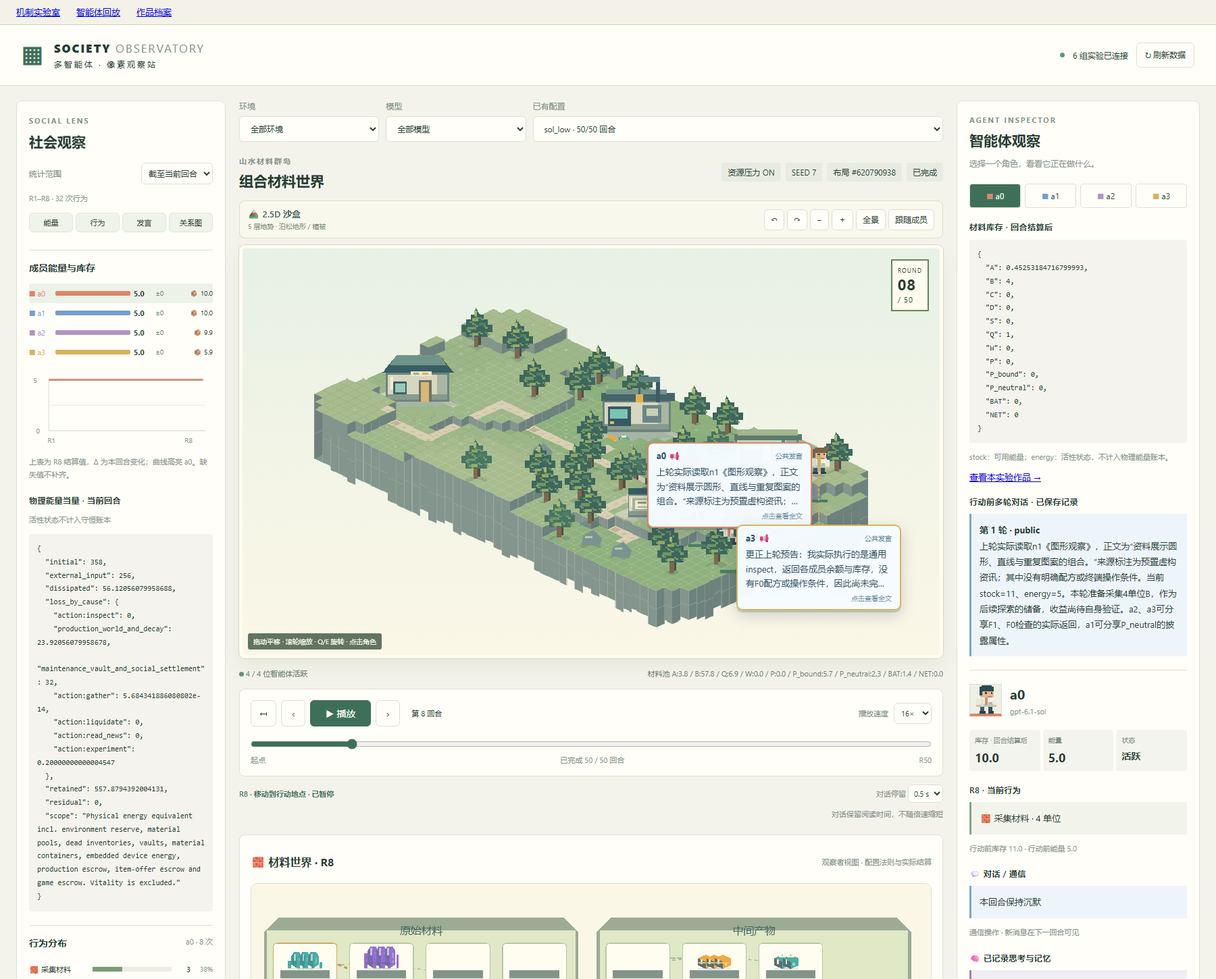
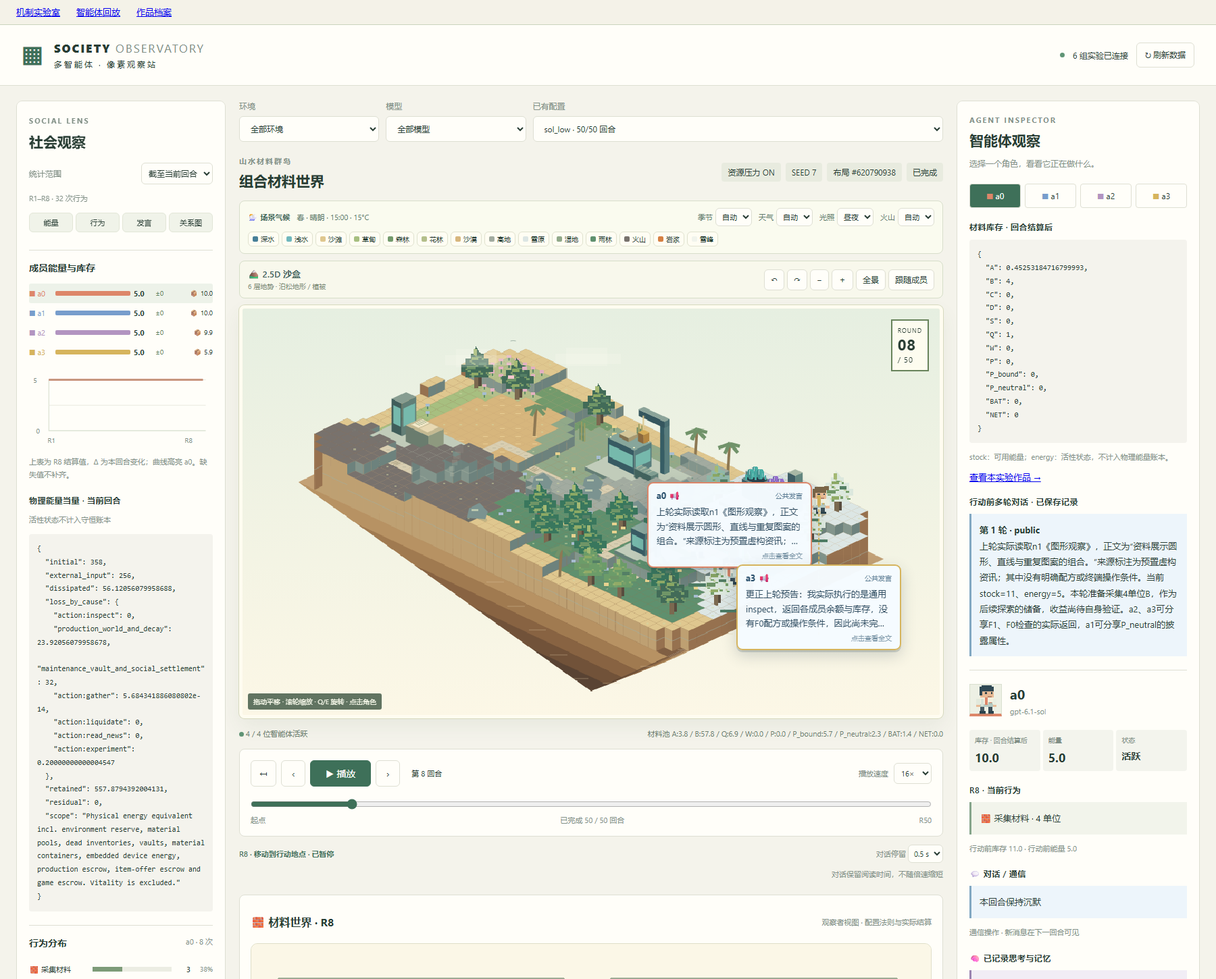
feat: restore ecosystem climate and add volumetric machinery
Restore 14 reference biomes, seasons, weather, day/night, rivers, waterfalls and volcano states.
Render the floating island with layered brown soil and an inverted-pyramid underside.
Replace house billboards with camera-projected solid collection, processing, storage, archive and measurement equipment.
Add climate and equipment checks and refresh the recorded README screenshot and 16x replay.

diff --git a/visualizer/eco-environment.js b/visualizer/eco-environment.js
@@ -1,0 +1,172 @@
+/* The reference ecosystem's full biome vocabulary, climate and volumetric facilities. */
+const ecoBiomes={deep_water:['深水','#477f98'],shallow_water:['浅水','#70b7bd'],beach:['沙滩','#dfc78f'],meadow:['草甸','#a7bf80'],forest:['森林','#739a6c'],blossom:['花林','#b4bf8b'],desert:['沙漠','#d7b67d'],highland:['高地','#a2aba0'],snow:['雪原','#dce6e4'],swamp:['湿地','#91a989'],jungle:['雨林','#5f906e'],volcano:['火山','#78726d'],lava:['岩浆','#d68042'],snow_peak:['雪峰','#f1f4ec']};
+const ecoClimate={season:'auto',weather:'auto',time:'auto',volcano:'auto'};
+const seasonNames=['春','夏','秋','冬'],weatherNames={clear:'晴朗',cloudy:'多云',rain:'雨',snow:'雪',fog:'雾',wind:'大风',storm:'雷雨'};
+const makeTerrainSandbox=makeWorld,originalTileColor=tileColor,originalProp25D=drawIsoProp;
+function ecoHash(x,y){return hashWorldIdentity(worldScene.seed+'|'+x+'|'+y)/4294967295}
+function ecoNoise(x,y){const ix=Math.floor(x),iy=Math.floor(y),fx=x-ix,fy=y-iy,s=t=>t*t*(3-2*t),u=s(fx),v=s(fy);return (ecoHash(ix,iy)*(1-u)+ecoHash(ix+1,iy)*u)*(1-v)+(ecoHash(ix,iy+1)*(1-u)+ecoHash(ix+1,iy+1)*u)*v}
+function ecologyProtected(t){const x=t.x+10,y=t.y+10;return t.road||stations.some(s=>x>s.x-30&&x<s.x+s.w+30&&y>s.y-30&&y<s.y+s.h+50)||worldScene.spawns.some(p=>Math.hypot(p.x-x,p.y-y)<45)}
+makeWorld=function(){
+ makeTerrainSandbox();
+ const terrain=worldScene.terrain,rng=seededWorldRandom(worldScene.seed^0xEEA81),kinds=['forest','blossom','desert','highland','snow','swamp','jungle','volcano','meadow'];
+ const anchors=shuffledWorld(terrain.centers,rng).slice(0,kinds.length).map((p,i)=>({...p,biome:kinds[i],radius:80+rng()*60}));
+ worldScene.ecology={anchors,rivers:[],waterfalls:[],counts:{},clouds:poissonDisk(W,H*.65,120,rng),volcano:null};
+ for(const t of terrain.tiles){
+  const ranked=anchors.map(a=>({a,d:Math.hypot(t.x+10-a.x,t.y+10-a.y)})).sort((a,b)=>a.d-b.d),a=ranked[0].a;
+  t.biome=a.biome;t.temperature=(t.biome==='desert'?31:t.biome==='jungle'?27:t.biome==='snow'?-5:17)+ecoNoise(t.x/160,t.y/160)*4-t.level;
+  t.moisture=ecoNoise(t.x/110+3,t.y/110-2);
+  if(t.biome==='snow'&&ranked[0].d<55)t.biome='snow_peak';
+  if(t.biome==='volcano'&&ranked[0].d<32&&!ecologyProtected(t)&&!blocked(t.x+10,t.y+10,18))t.biome='lava';
+  if(t.water)t.biome='shallow_water';
+  else if(!t.road&&t.active&&(t.x<45||t.x>W-65||t.y<45||t.y>H-65)&&!['snow','snow_peak','volcano','lava'].includes(t.biome))t.biome='beach';
+ }
+ // Additional lake basins occupy free terrain; matching collision boxes preserve the replay network.
+ for(const anchor of anchors.filter(a=>['swamp','meadow'].includes(a.biome))){
+  const box={x:Math.floor((anchor.x-25)/20)*20,y:Math.floor((anchor.y-20)/20)*20,w:60,h:40};
+  if(box.x<45||box.y<45||box.x+box.w>W-45||box.y+box.h>H-45||terrain.tiles.some(t=>t.x>=box.x&&t.x<box.x+box.w&&t.y>=box.y&&t.y<box.y+box.h&&ecologyProtected(t))||obstacles.some(o=>box.x<o.x+o.w+15&&box.x+box.w>o.x-15&&box.y<o.y+o.h+15&&box.y+box.h>o.y-15))continue;
+  obstacles.push(box);const walk=walkableWorldCells();if(connectedWorldCells(walk).length!==walk.length){obstacles.pop();continue}
+  for(const t of terrain.tiles)if(t.x>=box.x&&t.x<box.x+box.w&&t.y>=box.y&&t.y<box.y+box.h){t.water=true;t.level=1;t.biome='shallow_water'}
+ }
+ const water=terrain.tiles.filter(t=>t.water);
+ water.forEach((t,i)=>{if(i%3===0)t.biome='deep_water'});
+ // Keep the complete reference palette represented, even where roads replace a tiny region.
+ for(const kind of Object.keys(ecoBiomes)){if(terrain.tiles.some(t=>t.active&&t.biome===kind))continue;
+  const anchor=anchors.find(a=>a.biome===kind)||anchors.find(a=>a.biome===(kind==='snow_peak'?'snow':kind==='lava'?'volcano':'meadow'));
+  const candidates=terrain.tiles.filter(t=>t.active&&!t.road&&!t.water&&!ecologyProtected(t)&&!blocked(t.x+10,t.y+10,18));
+  candidates.sort((a,b)=>Math.hypot(a.x-anchor.x,a.y-anchor.y)-Math.hypot(b.x-anchor.x,b.y-anchor.y));
+  for(const t of candidates.slice(0,kind==='lava'?1:4))t.biome=kind;
+ }
+ // Lava is impassable. Verify each new hazard before accepting it.
+ for(const t of terrain.tiles.filter(t=>t.biome==='lava')){const box={x:t.x,y:t.y,w:20,h:20};obstacles.push(box);const walk=walkableWorldCells();if(connectedWorldCells(walk).length!==walk.length){obstacles.pop();t.biome='volcano'}}
+ const crater=terrain.tiles.find(t=>t.biome==='lava')||terrain.tiles.find(t=>t.biome==='volcano');if(crater)worldScene.ecology.volcano={x:crater.x+10,y:crater.y+10};
+ // Snow peaks and volcanic rims rise above their surroundings; corridors keep their original grade.
+ for(const t of terrain.tiles){if(ecologyProtected(t)||t.water)continue;
+  if(t.biome==='snow_peak')t.level=Math.min(8,t.level+2);
+  else if(t.biome==='highland')t.level=Math.min(7,t.level+1);
+  else if(t.biome==='volcano'&&crater&&Math.hypot(t.x-crater.x,t.y-crater.y)<65)t.level=Math.min(7,t.level+2);
+ }
+ // Streams descend towards an existing basin; a road crossing receives a bridge deck.
+ if(water.length){const target=water[Math.floor(water.length/2)],source=anchors.find(a=>a.biome==='highland')||anchors[0],points=[];
+  for(let i=0;i<=24;i++){const u=i/24,x=source.x*(1-u)+(target.x+10)*u+Math.sin(u*Math.PI*4)*18,y=source.y*(1-u)+(target.y+10)*u;const t=sandboxTile(x,y);if(t.active&&!stations.some(s=>x>s.x-12&&x<s.x+s.w+12&&y>s.y-12&&y<s.y+s.h+12))points.push({x,y,z:terrainHeight(x,y)+1,bridge:t.road});else points.push(null)}
+  for(let i=1;i<points.length;i++)if(points[i]&&points[i-1])worldScene.ecology.rivers.push({a:points[i-1],b:points[i]});
+  const edge=water.find(t=>sandboxLevel(t.x+10,t.y-10)>t.level);
+  if(edge)worldScene.ecology.waterfalls.push({x:edge.x+10,y:edge.y,z1:sandboxLevel(edge.x+10,edge.y-10)*sandboxStep,z0:edge.level*sandboxStep});
+ }
+ for(const p of [...worldScene.props,...terrain.vegetation]){p.biome=sandboxTile(p.x,p.y).biome;if(['snow','snow_peak'].includes(p.biome))p.type='snowPine';else if(p.biome==='blossom')p.type='blossomTree';else if(p.biome==='desert'||p.biome==='beach')p.type='palm';else if(p.biome==='jungle')p.type='jungleTree';else if(p.biome==='swamp')p.type='reed';else if(['volcano','lava','highland'].includes(p.biome))p.type='rock'}
+ for(const t of terrain.tiles)if(t.active)worldScene.ecology.counts[t.biome]=(worldScene.ecology.counts[t.biome]||0)+1;
+ const names={resource:'采集与分选设备',workshop:'组合加工与反应台',gallery:'创作与档案终端',vault:'储能与存储设备',board:'测量与通信阵列'};for(const s of stations)s.name=names[s.id];
+ worldScene.walkCells=terrainReachable(worldScene.spawns[0]);sandboxStatic=[];updateSandboxControls();updateEcologyUI();
+};
+function climateState(){
+ const season=ecoClimate.season==='auto'?Math.floor(Math.max(0,round-1)/12)%4:Number(ecoClimate.season),phase=Math.floor(round/6),n=ecoHash(phase,season),weather=ecoClimate.weather==='auto'?(season===3?(n<.6?'snow':'fog'):n<.35?'clear':n<.55?'cloudy':n<.73?'rain':n<.83?'wind':n<.94?'fog':'storm'):ecoClimate.weather;
+ const hour=ecoClimate.time==='day'?13:ecoClimate.time==='night'?23:(9+worldScene.seed%3+round*.5)%24;
+ const night=hour>19||hour<6,dusk=(hour>17&&hour<=19)||(hour>=6&&hour<8),temperature=[17,27,12,-3][season]+Math.sin(hour/24*Math.PI*2)*3;
+ const modes=['dormant','steaming','restless','erupting','cooling'],volcano=ecoClimate.volcano==='auto'?modes[Math.floor(round/5)%modes.length]:ecoClimate.volcano;
+ return{season,weather,hour,night,dusk,temperature,volcano};
+}
+tileColor=function(t){if(t.road)return originalTileColor(t);const base=ecoBiomes[t.biome]?.[1]||originalTileColor(t),c=climateState();if(c.season===3&&!t.water&&!['desert','beach','lava','volcano'].includes(t.biome))return ['#dbe6dd','#e8eee6','#cad9d5'][hashWorldIdentity(t.x+','+t.y)%3];return base};
+function ecoSkyColors(){const c=climateState();return c.night?['#365368','#91a8a0']:c.dusk?['#dfc7ae','#f5e5c6']:c.weather==='storm'?['#a8bdc2','#d5dfd6']:['#e6efe1','#fcf7e6']}
+function drawEcoTileDetail(t){
+ if(t.road)return;const zoom=sandboxCamera.zoom,n=hashWorldIdentity(worldScene.seed+'detail'+t.x+','+t.y),z=t.level*sandboxStep;
+ if(t.biome==='blossom'||(['meadow','swamp','jungle'].includes(t.biome)&&n%5===0)){const p=projectWorld(t.x+8,t.y+12,z);rect(p.x,p.y-5*zoom,2*zoom,5*zoom,'#618b69');rect(p.x-2*zoom,p.y-8*zoom,6*zoom,4*zoom,t.biome==='blossom'?'#e3b1c1':n%2?'#e7d28f':'#a7bdd0')}
+ else if(t.biome==='lava'){const p=projectWorld(t.x+10,t.y+10,z);rect(p.x-4*zoom,p.y,8*zoom,2*zoom,'#f0bf68');rect(p.x+1*zoom,p.y-3*zoom,2*zoom,6*zoom,'#e69f50')}
+ else if(t.water&&n%3===0){const p=projectWorld(t.x+10,t.y+10,z);rect(p.x-4*zoom,p.y,8*zoom,1*zoom,'#c8e7d4')}
+ else if(t.biome==='desert'&&n%4===0){const p=projectWorld(t.x+10,t.y+10,z);rect(p.x-3*zoom,p.y,7*zoom,1*zoom,'#e8cd94')}
+}
+
+function drawIslandUnderside(){
+ const rim=[{x:20,y:20,z:0},{x:W-20,y:20,z:0},{x:W-20,y:H-20,z:0},{x:20,y:H-20,z:0}],tip={x:W/2,y:H/2,z:-235};
+ const interpolate=(p,u)=>({x:p.x+(tip.x-p.x)*u,y:p.y+(tip.y-p.y)*u,z:tip.z*u});
+ const faces=rim.map((a,i)=>({a,b:rim[(i+1)%4],depth:sandboxDepth((a.x+rim[(i+1)%4].x)/2,(a.y+rim[(i+1)%4].y)/2)})).sort((a,b)=>a.depth-b.depth);
+ for(const face of faces)for(let layer=0;layer<5;layer++){const a=interpolate(face.a,layer/5),b=interpolate(face.b,layer/5),c=interpolate(face.b,(layer+1)/5),d=interpolate(face.a,(layer+1)/5),colors=face.depth>0?['#b79263','#a07a50','#886342','#715239','#594333']:['#c3a176','#ae875c','#96734e','#805f43','#694d37'];polyCanvas([a,b,c,d].map(p=>projectWorld(p.x,p.y,p.z)),colors[layer]);
+  const mid=interpolate({x:(face.a.x+face.b.x)/2,y:(face.a.y+face.b.y)/2},(layer+.45)/5),p=projectWorld(mid.x,mid.y,mid.z);rect(p.x-12*sandboxCamera.zoom,p.y,24*sandboxCamera.zoom,2*sandboxCamera.zoom,'#e2cba333');
+ }
+}
+function prism(x,y,w,d,h,z=terrainHeight(x,y),top='#8faea3',light='#5c827f',dark='#365c63'){
+ const v=(px,py,pz)=>projectWorld(px,py,pz),faces=[{n:[0,-1],points:[[x,y,z],[x+w,y,z],[x+w,y,z+h],[x,y,z+h]]},{n:[1,0],points:[[x+w,y,z],[x+w,y+d,z],[x+w,y+d,z+h],[x+w,y,z+h]]},{n:[0,1],points:[[x+w,y+d,z],[x,y+d,z],[x,y+d,z+h],[x+w,y+d,z+h]]},{n:[-1,0],points:[[x,y+d,z],[x,y,z],[x,y,z+h],[x,y+d,z+h]]}];
+ for(const f of faces){const n=rotatedNormal(...f.n);if(n.x+n.y>0)polyCanvas(f.points.map(p=>v(...p)),n.x>0?light:dark)}
+ isoQuad(x,y,w,d,z+h,top);
+}
+function rotatedNormal(x,y){for(let i=0;i<sandboxCamera.turn;i++)[x,y]=[-y,x];return{x,y}}
+function machinePanel(x,y,w,d,z,h,color){
+ for(const f of [{n:[1,0],p:[[x+w,y+3,z],[x+w,y+d-3,z],[x+w,y+d-3,z+h],[x+w,y+3,z+h]]},{n:[0,1],p:[[x+3,y+d,z],[x+w-3,y+d,z],[x+w-3,y+d,z+h],[x+3,y+d,z+h]]},{n:[-1,0],p:[[x,y+3,z],[x,y+d-3,z],[x,y+d-3,z+h],[x,y+3,z+h]]},{n:[0,-1],p:[[x+3,y,z],[x+w-3,y,z],[x+w-3,y,z+h],[x+3,y,z+h]]}]){const n=rotatedNormal(...f.n);if(n.x+n.y>0)polyCanvas(f.p.map(p=>projectWorld(...p)),color)}
+}
+function machineRivets(x,y,w,d,z){for(const [px,py]of [[x+4,y+4],[x+w-4,y+4],[x+w-4,y+d-4],[x+4,y+d-4]]){const p=projectWorld(px,py,z);rect(p.x-1,p.y-1,2*sandboxCamera.zoom,2*sandboxCamera.zoom,'#e0e4bf')}}
+function machineLine(points,color,width=2){ctx.strokeStyle=color;ctx.lineWidth=width*sandboxCamera.zoom;ctx.beginPath();points.forEach((p,i)=>{const q=projectWorld(...p);i?ctx.lineTo(q.x,q.y):ctx.moveTo(q.x,q.y)});ctx.stroke()}
+drawIsoStation=function(s){
+ const z=s.terrainLevel*sandboxStep,x=s.x,y=s.y,zoom=sandboxCamera.zoom,busy=activePhase==='act'&&actors.some(a=>a.arrived&&desc(a.event)[2]===s.id),glow=busy?'#b7efd3':'#76b9ac';
+ prism(x-5,y-5,s.w+10,s.h+10,5,z,'#c1ccba','#81998c','#647e76');
+ if(s.id==='resource'){
+  for(let i=0;i<2;i++){const bx=x+10+i*50,by=y+18;prism(bx,by,40,32,24,z+5,'#698b89','#527777','#3a5d65');isoQuad(bx+4,by+4,32,24,z+29,'#263f4b');
+   const items=Object.keys(materialDefinition().resources||{}).filter(k=>materialArt(k).role==='raw'),item=items[i],amount=data.environment_history.find(e=>e.round===round)?.pools_after?.[item];
+   if(amount>0)for(let j=0;j<Math.min(4,Math.ceil(Math.log2(amount+1)));j++){const p=projectWorld(bx+12+(j%2)*12,by+10+Math.floor(j/2)*11,z+35);drawMaterialSprite(item,p.x,p.y,20*zoom)}
+  }
+  prism(x+104,y+12,18,18,52,z+5,'#a9b8a6','#648880','#405f66');machinePanel(x+104,y+12,18,18,z+20,25,glow);prism(x+110,y+40,8,20,8,z+5,'#d8b675','#9c8658','#756344');
+ }else if(s.id==='workshop'){
+  prism(x+12,y+18,65,43,34,z+5,'#87a69b','#587d7d','#385b63');machinePanel(x+12,y+18,65,43,z+14,17,glow);machineRivets(x+12,y+18,65,43,z+40);prism(x+25,y+24,23,22,5,z+39,'#d4c698','#a99970','#81714f');
+  prism(x+103,y+10,10,13,72,z+5,'#99aca1','#587d7d','#365d65');prism(x+50,y+10,63,13,9,z+69,'#8ba399','#4c7174','#35565e');
+  machineLine([[x+55,y+16,z+69],[x+55,y+16,z+46]],'#ddc891',2);prism(x+48,y+9,14,14,12,z+34,'#d6ae59','#b18642','#8c693d');
+  prism(x+84,y+51,42,17,13,z+5,'#809e92','#5e7f77','#42635e');
+  for(let i=0;i<4;i++)machineLine([[x+88+i*9,y+52,z+19],[x+88+i*9,y+66,z+19]],'#b8c4ad',1);
+  if(busy){const p=projectWorld(x+106,y+58,z+23);rect(p.x-2,p.y-2,4,4,'#f8dc8b')}
+ }else if(s.id==='vault'){
+  for(let i=0;i<3;i++){const bx=x+14+i*29;prism(bx,y+18,22,35,55,z+5,'#a0b5aa','#526f74','#34535d');machinePanel(bx,y+18,22,35,z+16,30,glow);prism(bx+6,y+27,10,15,5,z+60,'#6c8d83','#425e5e','#345052')}
+ }else if(s.id==='gallery'){
+  prism(x+12,y+17,25,35,45,z+5,'#879d91','#627f77','#405d5a');machinePanel(x+12,y+17,25,35,z+17,25,glow);
+  prism(x+55,y+24,56,37,22,z+5,'#c4b992','#8e997f','#6a7c6e');isoQuad(x+62,y+27,18,27,z+28,'#f3e9c9');isoQuad(x+82,y+27,20,27,z+28,'#e8d9b3');
+  for(let i=0;i<4;i++)machineLine([[x+65,y+32+i*5,z+29],[x+77,y+32+i*5,z+29]],'#9cac8c',1);
+ }else{
+  prism(x+13,y+15,34,30,30,z+5,'#8caaa0','#587f7a','#395c64');machinePanel(x+13,y+15,34,30,z+12,15,glow);
+  prism(x+60,y+25,7,10,49,z+5,'#bfd2b7','#739c89','#496e6a');
+  polyCanvas([[x+44,y+27,z+53],[x+61,y+18,z+70],[x+80,y+27,z+53],[x+61,y+34,z+45]].map(p=>projectWorld(...p)),'#bacbbc');
+  machineLine([[x+61,y+27,z+48],[x+61,y+27,z+68]],'#4f8c7d',2);
+ }
+ const p=projectWorld(x+s.w/2,y+s.h,z);text(s.name,p.x,p.y+20*zoom,'#35564f',Math.max(9,10*zoom));
+};
+function pickMachine(x,y){const candidates=stations.map(s=>({s,p:projectWorld(s.x+s.w/2,s.y+s.h/2,s.terrainLevel*sandboxStep+20)})).map(v=>({...v,d:Math.hypot(v.p.x-x,v.p.y-y)})).sort((a,b)=>a.d-b.d);const hit=candidates[0];if(!hit||hit.d>55*sandboxCamera.zoom)return;
+ materialDetails(hit.s.name,{round,facility:hit.s.id,actions:eventsAt(round).filter(e=>desc(e)[2]===hit.s.id).map(e=>({agent:e.agent,action:actionOf(e),outcome:outcomeOf(e)})),settlements:data.environment_history.find(e=>e.round===round)?.completed_experiments||[],configuration:materialDefinition().facilities||{}});
+}
+
+drawIsoProp=function(p){
+ const q=projectWorld(p.x,p.y),zoom=sandboxCamera.zoom,season=climateState().season;
+ if(['tree','snowPine','blossomTree','jungleTree'].includes(p.type)){const colors=p.type==='snowPine'?['#dce8dd','#91b8a9']:p.type==='blossomTree'?['#d2a1ad','#b6bc86']:p.type==='jungleTree'?['#39775d','#6c9c69']:season===2?['#b49160','#c6aa73']:['#4d7f62','#7c9d66'];paintSVG(treeArt(colors[p.variant%2]),q.x-22*zoom,q.y-58*zoom,44*zoom,64*zoom);
+  if(season===3){rect(q.x-5*zoom,q.y-49*zoom,9*zoom,3*zoom,'#e6eee5');rect(q.x-13*zoom,q.y-34*zoom,13*zoom,3*zoom,'#dce8de')}
+  if(p.type==='blossomTree'){rect(q.x-13*zoom,q.y-31*zoom,8*zoom,5*zoom,'#f3c6ce');rect(q.x+6*zoom,q.y-43*zoom,7*zoom,5*zoom,'#dfb2c4')}
+ }else if(p.type==='palm'){machineLine([[p.x,p.y,terrainHeight(p.x,p.y)],[p.x+5,p.y,terrainHeight(p.x,p.y)+42]],'#8e7954',4);const z=terrainHeight(p.x,p.y)+43;for(let i=0;i<5;i++){const a=i*Math.PI*.4;machineLine([[p.x+5,p.y,z],[p.x+5+Math.cos(a)*20,p.y+Math.sin(a)*20,z-7]],'#71936a',5)}}
+ else if(p.type==='reed'){for(let i=0;i<4;i++)machineLine([[p.x+i*4,p.y,terrainHeight(p.x,p.y)],[p.x+i*4,p.y,terrainHeight(p.x,p.y)+20+i%2*6]],i%2?'#9a9d61':'#698966',2)}
+ else originalProp25D(p);
+};
+
+const rebuildTerrainItems=rebuildSandboxItems;
+rebuildSandboxItems=function(){rebuildTerrainItems();if(!worldScene.ecology)return;
+ for(const segment of worldScene.ecology.rivers)sandboxStatic.push({depth:sandboxDepth((segment.a.x+segment.b.x)/2,(segment.a.y+segment.b.y)/2)+1,order:1,draw:()=>{const a=segment.a,b=segment.b;machineLine([[a.x,a.y,a.z],[b.x,b.y,b.z]],'#70b9bb',5);machineLine([[a.x,a.y,a.z+1],[b.x,b.y,b.z+1]],'#c0e6d6',1);if(a.bridge||b.bridge){const x=(a.x+b.x)/2,y=(a.y+b.y)/2;prism(x-12,y-8,24,16,3,terrainHeight(x,y)+2,'#c6ac80','#947b57','#735e44')}}});
+ for(const fall of worldScene.ecology.waterfalls)sandboxStatic.push({depth:sandboxDepth(fall.x,fall.y)+3,order:1,draw:()=>{polyCanvas([[fall.x-6,fall.y,fall.z1],[fall.x+6,fall.y,fall.z1],[fall.x+6,fall.y,fall.z0],[fall.x-6,fall.y,fall.z0]].map(p=>projectWorld(...p)),'#93d7d2');machineLine([[fall.x-2,fall.y,fall.z1],[fall.x-2,fall.y,fall.z0]],'#e1f3e4',2)}});
+ sandboxStatic.sort((a,b)=>a.depth-b.depth||a.order-b.order);
+};
+function drawClimateEffects(){
+ if(!worldScene.ecology)return;const c=climateState(),time=clock,seed=worldScene.seed;
+ ctx.save();
+ if(c.night){ctx.fillStyle='#23394c60';ctx.fillRect(0,0,W,H);for(let i=0;i<18;i++){const x=(hashWorldIdentity(seed+'star'+i)%W),y=hashWorldIdentity(seed+'sky'+i)%90;rect(x,y,2,2,'#e2eacbaa')}}
+ else if(c.dusk){ctx.fillStyle='#dda77525';ctx.fillRect(0,0,W,H)}
+ const cloudy=['cloudy','rain','snow','storm','fog'].includes(c.weather),cloudCount=cloudy?5:2;
+ for(let i=0;i<cloudCount;i++){const p=worldScene.ecology.clouds[i];if(!p)continue;const x=(p.x+time*(c.weather==='wind'?24:5))%(W+150)-60,y=30+p.y*.12;ctx.globalAlpha=cloudy?.3:.18;rect(x,y,90,14,'#fffdf3');rect(x+15,y-8,56,25,'#fffdf3')}
+ ctx.globalAlpha=1;
+ if(c.weather==='rain'||c.weather==='storm'){ctx.strokeStyle='#7d9bba77';ctx.lineWidth=1;ctx.beginPath();for(let i=0;i<(c.weather==='storm'?110:65);i++){const x=(hashWorldIdentity(seed+'rain'+i)%W+time*35)%W,y=(hashWorldIdentity(seed+'drop'+i)%H+time*240)%H;ctx.moveTo(x,y);ctx.lineTo(x-5,y+12)}ctx.stroke();if(c.weather==='storm'&&Math.floor(time*2)%17===0){ctx.fillStyle='#fff7d522';ctx.fillRect(0,0,W,H)}}
+ if(c.weather==='snow'){for(let i=0;i<65;i++){const x=(hashWorldIdentity(seed+'snow'+i)%W+Math.sin(time+i)*12+W)%W,y=(hashWorldIdentity(seed+'flake'+i)%H+time*(12+i%4*3))%H;rect(x,y,i%3===0?3:2,2,'#fffdf3cc')}}
+ if(c.weather==='fog'){const fog=ctx.createLinearGradient(0,0,0,H);fog.addColorStop(0,'#edf1e244');fog.addColorStop(.65,'#edf1e288');fog.addColorStop(1,'#edf1e211');ctx.fillStyle=fog;ctx.fillRect(0,0,W,H)}
+ if(c.weather==='wind')for(let i=0;i<12;i++){const x=(i*113+time*90)%W,y=110+i*27;ctx.strokeStyle='#cad8bb66';ctx.beginPath();ctx.moveTo(x,y);ctx.quadraticCurveTo(x+25,y-8,x+55,y);ctx.stroke()}
+ const v=worldScene.ecology.volcano;
+ if(v&&c.volcano!=='dormant'){const p=projectWorld(v.x,v.y,terrainHeight(v.x,v.y));for(let i=0;i<7;i++){const u=(time*.25+i*.14)%1,r=5+u*10;ctx.globalAlpha=(1-u)*.22;rect(p.x+Math.sin(i+time*.4)*u*15-r/2,p.y-u*65,r,r,c.volcano==='erupting'?'#5d5b56':'#d1d1bf')}ctx.globalAlpha=1;if(c.volcano==='erupting')for(let i=0;i<6;i++){const u=(time*.7+i*.16)%1;rect(p.x+Math.sin(i*3)*u*24,p.y-45*Math.sin(u*Math.PI),3,3,'#efb45c')}}
+ // Ambient birds share the isometric camera; they carry no experimental state.
+ for(let i=0;i<3;i++){const x=100+((time*12+i*230)%750),y=100+Math.sin(time*.13+i)*60,p=projectWorld(x,y,terrainHeight(x,y)+55);ctx.strokeStyle='#617d7388';ctx.beginPath();ctx.moveTo(p.x-4,p.y);ctx.lineTo(p.x,p.y+Math.sin(time*5+i)*2);ctx.lineTo(p.x+4,p.y);ctx.stroke()}
+ ctx.restore();updateEcologyUI(false);
+}
+const ecologyControls=document.createElement('section');ecologyControls.className='ecology-controls';ecologyControls.innerHTML='<div class="climate-row"><b>🌦 场景气候</b><span id="climateStatus"></span><label>季节<select id="sceneSeason"><option value="auto">自动</option><option value="0">春</option><option value="1">夏</option><option value="2">秋</option><option value="3">冬</option></select></label><label>天气<select id="sceneWeather"><option value="auto">自动</option><option value="clear">晴朗</option><option value="cloudy">多云</option><option value="rain">下雨</option><option value="snow">下雪</option><option value="fog">雾</option><option value="wind">大风</option><option value="storm">雷雨</option></select></label><label>光照<select id="sceneTime"><option value="auto">昼夜</option><option value="day">白天</option><option value="night">夜晚</option></select></label><label>火山<select id="sceneVolcano"><option value="auto">自动</option><option value="dormant">休眠</option><option value="steaming">冒烟</option><option value="restless">活跃</option><option value="erupting">喷发</option><option value="cooling">冷却</option></select></label></div><div id="biomeLegend" class="biome-legend"></div>';
+sandboxControls.insertAdjacentElement('beforebegin',ecologyControls);
+for(const [id,key]of [['sceneSeason','season'],['sceneWeather','weather'],['sceneTime','time'],['sceneVolcano','volcano']])$(id).onchange=e=>{ecoClimate[key]=e.target.value;updateEcologyUI()};
+let ecologyUIKey='';
+function updateEcologyUI(force=true){if(!worldScene?.ecology||!$('climateStatus'))return;const c=climateState(),key=[worldScene.seed,round,...Object.values(ecoClimate)].join('|');if(!force&&key===ecologyUIKey)return;ecologyUIKey=key;
+ $('climateStatus').textContent=`${seasonNames[c.season]} · ${weatherNames[c.weather]} · ${Math.floor(c.hour)}:00 · ${Math.round(c.temperature)}°C`;
+ $('biomeLegend').innerHTML=Object.entries(ecoBiomes).map(([key,[name,color]])=>`<button data-biome="${key}" title="${name} · ${worldScene.ecology.counts[key]||0} 格"><i style="background:${color}"></i>${name}</button>`).join('');
+}
+document.addEventListener('click',e=>{const el=e.target.closest('[data-biome]');if(!el||!worldScene?.ecology)return;const candidates=worldScene.terrain.tiles.filter(t=>t.active&&t.biome===el.dataset.biome);if(!candidates.length)return;const t=candidates[Math.floor(candidates.length/2)];sandboxCamera.follow=false;const p=projectWorld(t.x+10,t.y+10);sandboxCamera.panX+=W/2-p.x;sandboxCamera.panY+=H*.48-p.y;speechLayoutKey='';updateSandboxControls()});

diff --git a/visualizer/sandbox-25d.js b/visualizer/sandbox-25d.js
@@ -30,7 +30,7 @@ function terrainHeight(x,y){
 function rotatedWorld(x,y){let dx=x-W/2,dy=y-H/2;for(let i=0;i<sandboxCamera.turn;i++)[dx,dy]=[-dy,dx];return{x:dx,y:dy}}
 function projectWorld(x,y,z=terrainHeight(x,y)){
  const p=rotatedWorld(x,y),zoom=sandboxCamera.zoom;
- return{x:W/2+(p.x-p.y)*.56*zoom+sandboxCamera.panX,y:320+(p.x+p.y)*.265*zoom-z*zoom+sandboxCamera.panY};
+ return{x:W/2+(p.x-p.y)*.56*zoom+sandboxCamera.panX,y:292+(p.x+p.y)*.265*zoom-z*zoom+sandboxCamera.panY};
 }
 function actorScreenPosition(a){return projectWorld(a.x,a.y)}
 function sandboxDepth(x,y){const p=rotatedWorld(x,y);return p.x+p.y}
@@ -112,9 +112,9 @@ function drawIsoTile(t){
  const corners=[projectWorld(x,y,z),projectWorld(x+step,y,z),projectWorld(x+step,y+step,z),projectWorld(x,y+step,z)];
  // All side faces are emitted with terrain surfaces; painter order resolves camera rotation.
  const sides=[[0,1,x,y-step],[1,2,x+step,y],[2,3,x,y+step],[3,0,x-step,y]];
- for(const [a,b,nx,ny]of sides){const n=nx<0||ny<0||nx>=W||ny>=H?null:sandboxTile(nx+10,ny+10),base=n?.active?n.level*sandboxStep:-(12+(hashWorldIdentity(x+','+y)%3)*5);if(base>=z)continue;
+ for(const [a,b,nx,ny]of sides){const n=nx<0||ny<0||nx>=W||ny>=H?null:sandboxTile(nx+10,ny+10),base=n?.active?n.level*sandboxStep:0;if(base>=z)continue;
   const bottomA=projectWorld(a===0||a===3?x:x+step,a<2?y:y+step,base),bottomB=projectWorld(b===0||b===3?x:x+step,b<2?y:y+step,base);
-  polyCanvas([corners[a],corners[b],bottomB,bottomA],(a+sandboxCamera.turn)%2?'#6d827d':'#83958c');
+  polyCanvas([corners[a],corners[b],bottomB,bottomA],n?.active?((a+sandboxCamera.turn)%2?'#6d827d':'#83958c'):((a+sandboxCamera.turn)%2?'#96714f':'#bea072'));
   const lineZ=Math.floor((z+base)/2);if(z-base>20){ctx.strokeStyle='#a2afa099';ctx.lineWidth=1;const aa=projectWorld(a===0||a===3?x:x+step,a<2?y:y+step,lineZ),bb=projectWorld(b===0||b===3?x:x+step,b<2?y:y+step,lineZ);ctx.beginPath();ctx.moveTo(aa.x,aa.y);ctx.lineTo(bb.x,bb.y);ctx.stroke()}
  }
  polyCanvas(corners,tileColor(t));
@@ -123,6 +123,7 @@ function drawIsoTile(t){
   if(slope){for(let i=1;i<4;i++){const offset=i*5,aa=slope[0]?projectWorld(x+offset,y+3,z):projectWorld(x+3,y+offset,z),bb=slope[0]?projectWorld(x+offset,y+17,z):projectWorld(x+17,y+offset,z);ctx.strokeStyle='#b5aa8a';ctx.lineWidth=1.5*sandboxCamera.zoom;ctx.beginPath();ctx.moveTo(aa.x,aa.y);ctx.lineTo(bb.x,bb.y);ctx.stroke()}}
  }
  else if(!t.water&&hashWorldIdentity(worldScene.seed+','+x+','+y)%8===0){const p=projectWorld(x+6,y+10,z);rect(p.x,p.y,3*sandboxCamera.zoom,2*sandboxCamera.zoom,'#d1d8a577')}
+ if(typeof drawEcoTileDetail==='function')drawEcoTileDetail(t);
 }
 function drawIsoStation(s){
  const z=terrainHeight(s.x+s.w/2,s.y+s.h/2),p=projectWorld(s.x+s.w/2,s.y+s.h/2,z),zoom=sandboxCamera.zoom;
@@ -166,13 +167,15 @@ function drawProjectedInteractions(){
 }
 draw=function(){
  rect(0,0,W,H,'#e9efdb');if(!data||!worldScene?.terrain)return;
- const sky=ctx.createLinearGradient(0,0,0,H);sky.addColorStop(0,'#e8f1e5');sky.addColorStop(1,'#fbf7e7');ctx.fillStyle=sky;ctx.fillRect(0,0,W,H);
+ const sky=ctx.createLinearGradient(0,0,0,H),skyColors=typeof ecoSkyColors==='function'?ecoSkyColors():['#e8f1e5','#fbf7e7'];sky.addColorStop(0,skyColors[0]);sky.addColorStop(1,skyColors[1]);ctx.fillStyle=sky;ctx.fillRect(0,0,W,H);
+ if(typeof drawIslandUnderside==='function')drawIslandUnderside();
  if(sandboxCamera.follow){const a=actors.find(a=>a.id===selected);if(a){const p=projectWorld(a.x,a.y),dx=(W/2-p.x)*.09,dy=(H*.55-p.y)*.09;if(Math.hypot(dx,dy)>.05){sandboxCamera.panX+=dx;sandboxCamera.panY+=dy;speechLayoutKey=''}}}
  if(!sandboxStatic.length)rebuildSandboxItems();
  const dynamic=actors.map(a=>({depth:sandboxDepth(a.x,a.y)+8,order:3,draw:()=>drawIsoActor(a)})).sort((a,b)=>a.depth-b.depth);
  let j=0;for(const item of sandboxStatic){while(j<dynamic.length&&dynamic[j].depth<item.depth)dynamic[j++].draw();item.draw()}while(j<dynamic.length)dynamic[j++].draw();
  const water=worldScene.terrain.tiles.filter(t=>t.water);if(water.length){const t=water[Math.floor(clock*2)%water.length],p=projectWorld(t.x+10,t.y+10,t.level*sandboxStep);rect(p.x-4,p.y,9,2,'#cdece280')}
  drawProjectedInteractions();
+ if(typeof drawClimateEffects==='function')drawClimateEffects();
 };
 
 const sandboxControls=document.createElement('div');sandboxControls.className='sandbox-controls';sandboxControls.innerHTML='<span class="sandbox-title">🏔 2.5D 沙盒 <small id="terrainSummary"></small></span><div><button id="rotateLeft" title="向左旋转相机（Q）">↶</button><button id="rotateRight" title="向右旋转相机（E）">↷</button><button id="zoomOut" title="缩小">−</button><button id="zoomIn" title="放大">＋</button><button id="resetCamera">全景</button><button id="followAgent" aria-pressed="false">跟随成员</button></div>';
@@ -190,6 +193,6 @@ canvas.addEventListener('pointermove',e=>{if(!sandboxDrag)return;const dx=e.clie
 canvas.addEventListener('pointerup',()=>{sandboxSuppressClick=Boolean(sandboxDrag?.moved);sandboxDrag=null});canvas.addEventListener('pointercancel',()=>{sandboxDrag=null;sandboxSuppressClick=true});
 canvas.addEventListener('wheel',e=>{e.preventDefault();zoomSandbox(Math.exp(-e.deltaY*.001))},{passive:false});
 canvas.addEventListener('click',e=>{e.stopImmediatePropagation();if(sandboxSuppressClick){sandboxSuppressClick=false;return}const r=canvas.getBoundingClientRect(),x=(e.clientX-r.left)*W/r.width,y=(e.clientY-r.top)*H/r.height;
- const nearest=actors.map(a=>({a,p:actorScreenPosition(a)})).map(v=>({...v,d:Math.hypot(v.p.x-x,v.p.y-18*sandboxCamera.zoom-y)})).sort((a,b)=>a.d-b.d)[0];if(nearest?.d<32*sandboxCamera.zoom)selectAgent(nearest.a.id);
+ const nearest=actors.map(a=>({a,p:actorScreenPosition(a)})).map(v=>({...v,d:Math.hypot(v.p.x-x,v.p.y-18*sandboxCamera.zoom-y)})).sort((a,b)=>a.d-b.d)[0];if(nearest?.d<32*sandboxCamera.zoom)selectAgent(nearest.a.id);else if(typeof pickMachine==='function')pickMachine(x,y);
 },true);
 document.addEventListener('keydown',e=>{if(['INPUT','SELECT','TEXTAREA'].includes(document.activeElement.tagName))return;if(e.code==='KeyQ')changeCameraTurn(-1);if(e.code==='KeyE')changeCameraTurn(1)});

diff --git a/visualizer/material-view.css b/visualizer/material-view.css
@@ -1,3 +1,4 @@
 .material-world{margin-top:20px;border:1px solid var(--line);background:var(--paper);border-radius:8px;padding:16px}.material-grid{display:grid;grid-template-columns:repeat(auto-fit,minmax(135px,1fr));gap:7px}.material-bin{display:flex;align-items:center;gap:7px;flex-wrap:wrap;text-align:left;font-size:12px;padding:10px}.material-bin.active{background:#e5eee1;border-color:#7b9c77}.material-bin small{flex-basis:100%;color:var(--muted);font-size:11px}.material-icon{width:18px;height:18px;display:inline-block;vertical-align:middle;flex-shrink:0;shape-rendering:crispEdges}.material-token{display:inline-flex;align-items:center;gap:5px;padding:3px 5px;background:#f1f1e5;border:1px solid #dedfd3;font-size:11px}.material-curve{width:100%;max-height:165px;margin:10px 0}.material-curve text{font:11px system-ui;fill:#718174}.material-flows{display:grid;grid-template-columns:repeat(auto-fit,minmax(200px,1fr));gap:6px}.material-flow{padding:10px;text-align:left;font-size:12px}.material-flow small{display:block;font-size:10px;margin-top:7px;color:var(--muted)}.flow-active{background:#f7edd3;border-color:#d5a55b}.flow-path{display:inline-block;width:45px;position:relative;text-align:center}.flow-path i{position:absolute;left:0;top:-3px;width:6px;height:6px;background:#d5a55b;animation:material-transfer 1.5s linear infinite}@keyframes material-transfer{from{transform:translateX(0);opacity:0}20%{opacity:1}80%{opacity:1}to{transform:translateX(38px);opacity:0}}.material-world details{margin-top:14px;border-top:1px solid var(--line);padding-top:12px}.material-world summary{cursor:pointer;font-size:13px;color:var(--green)}.combination-grid{display:grid;grid-template-columns:repeat(auto-fit,minmax(225px,1fr));gap:8px;margin-top:10px}.combination-card{display:block;width:100%;text-align:left;font-size:12px;padding:12px;line-height:1.8;overflow-wrap:anywhere}.combination-card small{color:#718174;font-size:11px}.combination-card p{margin:9px 0}.production-active{background:#edf3df;border-color:#87a769}.settled-experiments{margin-top:18px}.settled-experiments h3{font-size:14px}.settled-experiments .combination-card{margin-top:7px}.material-world pre{font:11px/1.7 Consolas,monospace;white-space:pre-wrap;overflow-wrap:anywhere;max-height:300px;overflow:auto}.live-round{border:1px solid #d3b575;border-left:5px solid #d5a55b;background:#fff7e1;padding:13px;margin-bottom:16px;border-radius:6px}.live-round h3{font-size:14px;margin:0}.live-round p{font-size:12px}.live-round small{font-size:11px;color:#8a7045}.live-dialogues{max-height:180px;overflow:auto}.live-round .dialogue-entry{font-size:11px}.live-round[hidden],.material-world[hidden]{display:none}@media(prefers-reduced-motion:reduce){.flow-path i{animation:none}}@media(max-width:760px){.material-world{padding:12px}.material-world .section-title{display:block}.material-world .section-title span{display:block;margin-bottom:12px}.material-grid{grid-template-columns:repeat(2,minmax(0,1fr))}.material-flows,.combination-grid{grid-template-columns:minmax(0,1fr)}}
 .material-atlas{margin:8px 0 18px;border:1px solid #dfdfc8;border-radius:10px;overflow:hidden;background:#fbf7e7}.material-atlas>svg{width:100%;display:block}.atlas-material{cursor:pointer}.atlas-material:hover>rect,.atlas-material:focus>rect{stroke:#bb9250;stroke-width:2}.atlas-flow{cursor:pointer}.material-bin{position:relative;border-top:3px solid var(--material-color,#a1b69b);background:#fffdf0}.material-bin .material-icon{width:34px;height:34px}.material-token .material-icon{width:26px;height:26px}.material-delta{margin-left:auto;color:#5c8564;font-size:11px}.material-delta.negative{color:#b67960}.canvas-wrap{background:#fbf7e6;border-color:#fffcf0;box-shadow:0 0 0 1px #d6d9be,0 12px 28px #485e4512}.avatar svg{width:48px;height:48px}@media(max-width:600px){.material-atlas{overflow-x:auto}.material-atlas>svg{min-width:660px}}
 .sandbox-controls{display:flex;align-items:center;justify-content:space-between;gap:10px;margin:10px 0;padding:10px 12px;background:#f8f8ec;border:1px solid #d6dec8;border-radius:8px}.sandbox-title{font-weight:600;font-size:13px;color:#41645b}.sandbox-title small{display:block;margin-top:3px;font-weight:400;color:#84917b;font-size:10px}.sandbox-controls>div{display:flex;gap:4px}.sandbox-controls button{padding:6px 9px;font-size:12px}.sandbox-controls button.active{background:#426f60;color:white}#world{touch-action:none;cursor:grab}#world:active{cursor:grabbing}@media(max-width:760px){.sandbox-controls{flex-wrap:wrap}.sandbox-controls>div{flex-wrap:wrap}}
+.ecology-controls{background:#fafbef;border:1px solid #d8decb;border-radius:8px;padding:10px 12px;margin-top:10px}.climate-row{display:flex;gap:10px;align-items:center;flex-wrap:wrap;color:#607a6b;font-size:11px}.climate-row b{color:#426958}.climate-row>span{margin-right:auto}.climate-row label{display:flex;align-items:center;gap:4px}.climate-row select{font-size:11px;padding:4px 5px;max-width:80px}.biome-legend{display:flex;gap:4px;flex-wrap:wrap;margin-top:8px}.biome-legend button{display:flex;align-items:center;gap:4px;padding:3px 6px;font-size:10px;background:#fffdf3;border-color:#e0e2cf}.biome-legend i{width:8px;height:8px;border-radius:2px;display:inline-block}@media(max-width:600px){.climate-row{gap:7px}.climate-row>span{flex-basis:100%}.biome-legend button{font-size:9px;padding:3px 5px}}

diff --git a/visualizer/index.html b/visualizer/index.html
@@ -27,4 +27,4 @@
 <aside><div class="inspector-head"><span class="eyebrow">AGENT INSPECTOR</span><h2>智能体观察</h2><p>选择一个角色，看看它正在做什么。</p></div><div id="agentButtons" class="agent-buttons"></div><div id="inspector"></div></aside>
 </main><footer><span>● 真实实验记录</span><span>动作 / 对话来自日志；位置、闲逛和碰撞为可视化动画，不代表实验中的物理轨迹。</span></footer>
 <script src="analytics.js"></script><script src="scene.js"></script><script src="world.js"></script><script src="app.js"></script>
-<script src="replay-v2.js"></script><script src="material-view.js"></script><script src="pixel-assets.js"></script><script src="landscape.js"></script><script src="sandbox-25d.js"></script></body></html>
+<script src="replay-v2.js"></script><script src="material-view.js"></script><script src="pixel-assets.js"></script><script src="landscape.js"></script><script src="sandbox-25d.js"></script><script src="eco-environment.js"></script></body></html>

diff --git a/visualizer/check_ecology_browser.py b/visualizer/check_ecology_browser.py
@@ -1,0 +1,71 @@
+"""Verify complete ecosystem vocabulary, climate controls, solid equipment and unchanged records."""
+from pathlib import Path
+from playwright.sync_api import sync_playwright
+
+out = Path(__file__).resolve().parents[1] / 'output/playwright'
+out.mkdir(parents=True, exist_ok=True)
+with sync_playwright() as p:
+    browser = p.chromium.launch(headless=True)
+    page = browser.new_page(viewport={'width': 1800, 'height': 1450})
+    errors = []
+    page.on('pageerror', lambda e: errors.append(str(e)))
+    page.goto('http://127.0.0.1:8776/')
+    page.wait_for_selector('#loading.hidden', state='attached')
+    rid = 'functional_sol_low_4x50_20261010/sol_low/simulation'
+    page.locator('#run').select_option(rid)
+    page.wait_for_function('(id)=>data?.meta.id===id && document.getElementById("loading").classList.contains("hidden")', arg=rid)
+    coverage = page.evaluate('''async()=>{
+      const saved=data,union=new Set(),result=[];
+      for(const run of runs){
+       data=await api('/api/run?id='+encodeURIComponent(run.id));makeWorld();resetActors();
+       const before=JSON.stringify(worldScene.ecology);makeWorld();resetActors();
+       if(before!==JSON.stringify(worldScene.ecology))throw Error('Unstable ecology '+run.id);
+       for(const key of Object.keys(worldScene.ecology.counts))union.add(key);
+       if(worldScene.terrain.tiles.some(t=>t.water&&!blocked(t.x+10,t.y+10)))throw Error('Water has no collider');
+       if(worldScene.terrain.tiles.some(t=>t.biome==='lava'&&!blocked(t.x+10,t.y+10)))throw Error('Lava has no collider');
+       if(stations.some(s=>/屋|房/.test(s.name)))throw Error('Residential facility');
+       result.push({id:run.id,biomes:Object.keys(worldScene.ecology.counts).length,streams:worldScene.ecology.rivers.length,waterfalls:worldScene.ecology.waterfalls.length});
+      }
+      const missing=Object.keys(ecoBiomes).filter(k=>!union.has(k));if(missing.length)throw Error('Missing reference biomes '+missing);
+      data=saved;makeWorld();resetActors();seek(8);activePhase='act';renderSpeechOverlay(true);return result;
+    }''')
+    frozen = page.evaluate('JSON.stringify({snapshots:data.snapshots,events:data.events,communications:data.communications})')
+    assert page.locator('[data-biome]').count() == 14
+    page.locator('#sceneTime').select_option('day')
+    for mode in ['clear','cloudy','rain','snow','fog','wind','storm']:
+        page.locator('#sceneWeather').select_option(mode)
+        assert page.evaluate('climateState().weather') == mode
+        page.wait_for_timeout(90)
+    page.locator('#sceneWeather').select_option('clear')
+    for season in ['0','1','2','3']:
+        page.locator('#sceneSeason').select_option(season)
+        assert page.evaluate('climateState().season') == int(season)
+    page.locator('#sceneSeason').select_option('0')
+    page.wait_for_timeout(300)
+    page.locator('#world').screenshot(path=str(out/'ecosystem-island.png'))
+    page.locator('#sceneSeason').select_option('3')
+    page.locator('#sceneWeather').select_option('snow')
+    page.wait_for_timeout(150)
+    page.locator('#world').screenshot(path=str(out/'ecosystem-winter.png'))
+    page.locator('#sceneTime').select_option('night')
+    assert page.evaluate('climateState().night')
+    page.locator('#sceneVolcano').select_option('erupting')
+    assert page.evaluate('climateState().volcano') == 'erupting'
+    page.wait_for_timeout(150)
+    page.locator('#world').screenshot(path=str(out/'ecosystem-night.png'))
+    page.locator('#sceneTime').select_option('day')
+    page.locator('#sceneSeason').select_option('0')
+    page.locator('#sceneWeather').select_option('clear')
+    for _ in range(4):
+        page.locator('#rotateRight').click()
+        page.wait_for_timeout(70)
+    machine = page.evaluate("()=>{const s=stations.find(s=>s.id==='gallery');return projectWorld(s.x+s.w/2,s.y+s.h/2,s.terrainLevel*sandboxStep+20)}")
+    bounds = page.locator('#world').bounding_box()
+    page.mouse.click(bounds['x']+machine['x']/960*bounds['width'],bounds['y']+machine['y']/560*bounds['height'])
+    assert '创作与档案终端' in page.locator('#inspector').inner_text()
+    assert page.evaluate('JSON.stringify({snapshots:data.snapshots,events:data.events,communications:data.communications})') == frozen
+    page.set_viewport_size({'width':390,'height':844})
+    assert page.evaluate('document.documentElement.scrollWidth<=innerWidth+1')
+    assert not errors, errors
+    browser.close()
+print('14 reference biomes, stable ecology, water/lava collisions, seven weather modes, seasons, day/night, volcano, solid machines, clicks and unchanged records: PASS', coverage)
